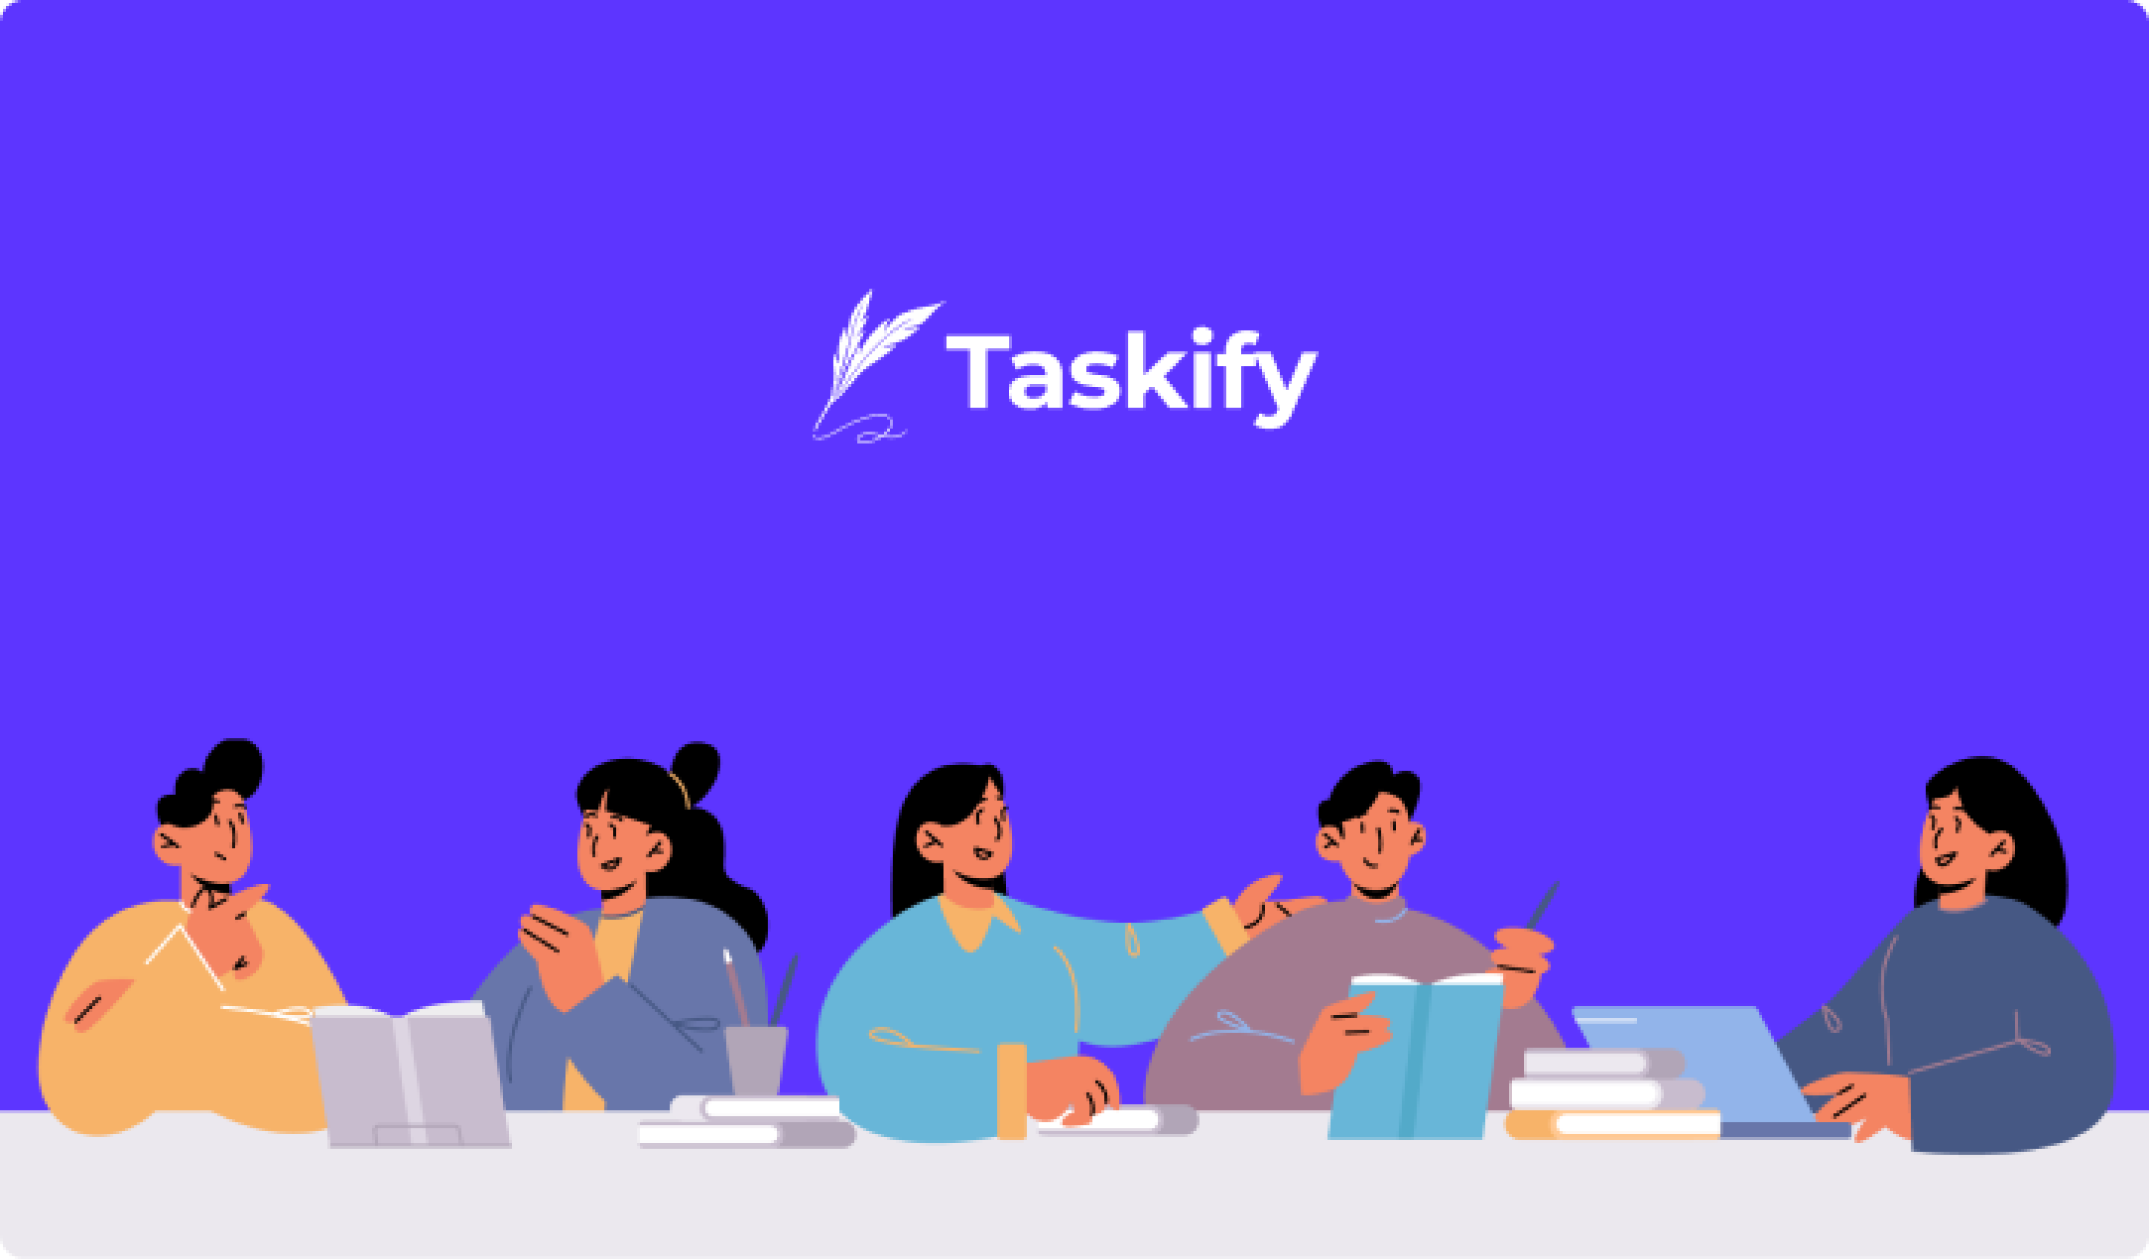
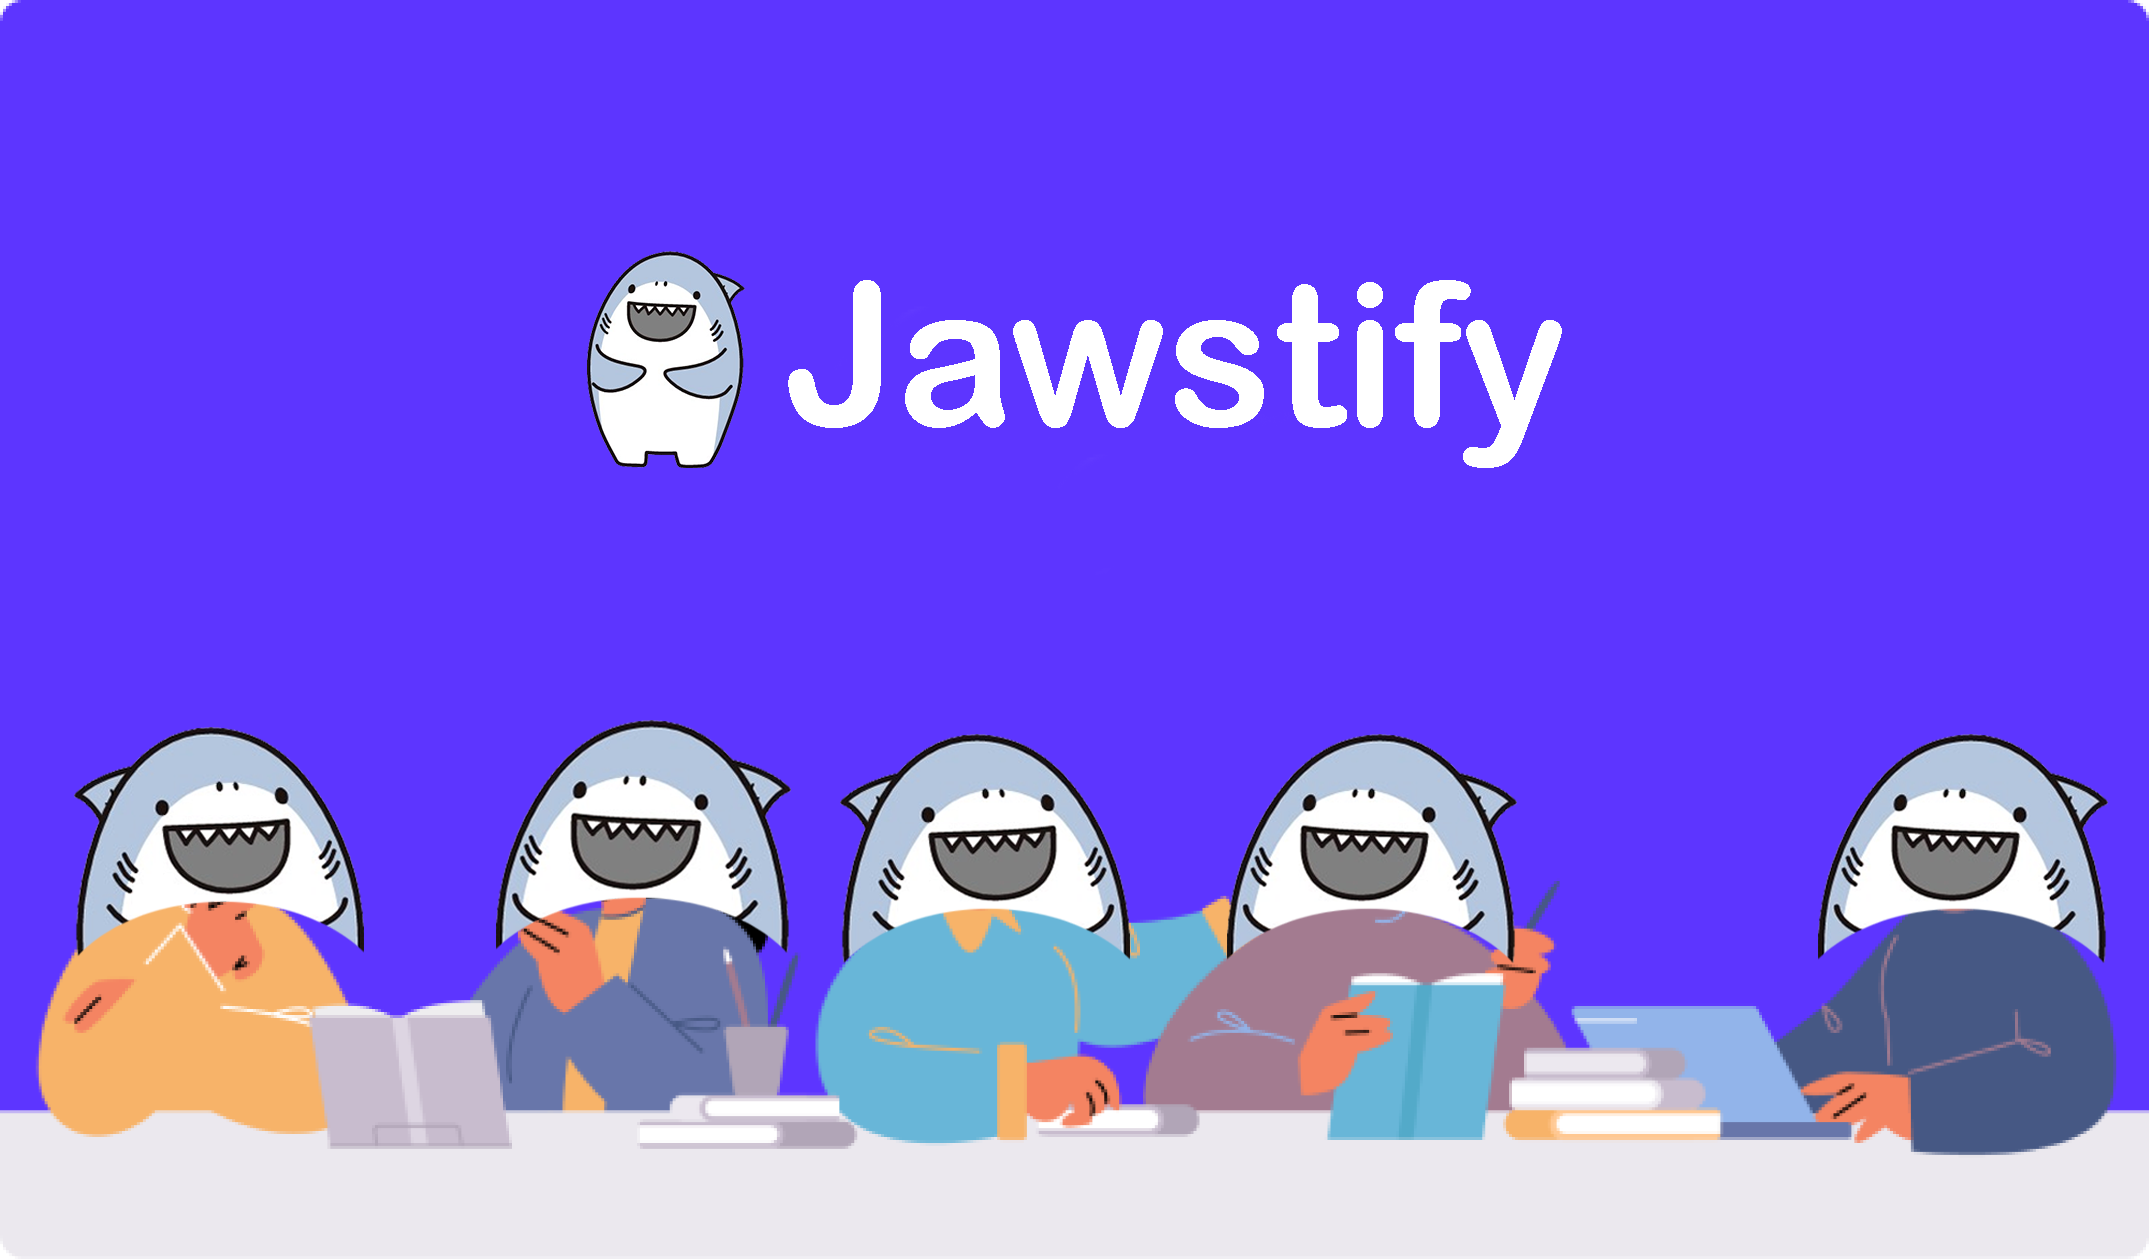
[#154] Feat: Jawsitfy로 변경

diff --git a/pages/signup/index.tsx b/pages/signup/index.tsx
@@ -5,8 +5,8 @@ import LoginButton from '@/components/common/Button/LoginButton';
 import * as C from '@/constants/SignValidate';
 import useAuth from '@/hooks/useAuth';
 import useRedirectByLogin from '@/hooks/useRedirectByLogin';
-import mainLogoText from '@/public/assets/icons/logoText.svg';
-import mainLogo from '@/public/assets/icons/mainPurpleLogo.svg';
+import mainLogoText from '@/public/assets/images/title.png';
+import mainLogo from '@/public/assets/images/transJaws.png';
 import { fontStyle } from '@/styles/fontStyle';
 import { COLORS } from '@/styles/palettes';
 import { useRouter } from 'next/router';
@@ -85,9 +85,9 @@ function SignUp() {
   return (
     <StyledContainer>
       <L.StyledLogoContainer href={'/'}>
-        <L.StyledLogoImg src={mainLogo} height={190} width={165} alt="메인 로고" />
-        <L.StyledLogoText src={mainLogoText} height={55} width={198} alt="메인 로고 텍스트" />
-        <L.StyledDescription>첫 방문을 환영합니다!</L.StyledDescription>
+        <L.StyledLogoImg src={mainLogo} height={190} width={190} alt="메인 로고" />
+        <L.StyledLogoText src={mainLogoText} height={55} width={240} alt="메인 로고 텍스트" />
+        <L.StyledDescription>첫 방문 조습니다!</L.StyledDescription>
       </L.StyledLogoContainer>
 
       <L.StyledForm onSubmit={handleSubmit(onSubmit)}>
@@ -133,7 +133,7 @@ function SignUp() {
               setIsAgreeChecked((prev) => !prev);
             }}
           />
-          <StyledText>이용약관에 동의합니다.</StyledText>
+          <StyledText>이용약관 조습니다.</StyledText>
         </StyledCheckBoxContainer>
         {!isAgreeChecked && <StyledAgreeNotCheckedText>{alertMessage.noCheck}</StyledAgreeNotCheckedText>}
         <LoginButton active={isBtnActive} usingType="login" text="회원가입" type="submit" margin="-3px 0 0" />

diff --git a/pages/login/index.tsx b/pages/login/index.tsx
@@ -6,8 +6,8 @@ import * as C from '@/constants/SignValidate';
 import useUserData from '@/hooks/global/useUserData';
 import useAuth from '@/hooks/useAuth';
 import useRedirectByLogin from '@/hooks/useRedirectByLogin';
-import mainLogoText from '@/public/assets/icons/logoText.svg';
-import mainLogo from '@/public/assets/icons/mainPurpleLogo.svg';
+import mainLogoText from '@/public/assets/images/title.png';
+import mainLogo from '@/public/assets/images/transJaws.png';
 import { fontStyle } from '@/styles/fontStyle';
 import { onMobile } from '@/styles/mediaQuery';
 import { COLORS } from '@/styles/palettes';
@@ -64,9 +64,9 @@ function Login() {
   return (
     <StyledContainer>
       <StyledLogoContainer href={'/'}>
-        <StyledLogoImg src={mainLogo} height={190} width={165} alt="메인 로고" />
-        <StyledLogoText src={mainLogoText} height={55} width={198} alt="메인 로고 텍스트" />
-        <StyledDescription>오늘도 만나서 반가워요!</StyledDescription>
+        <StyledLogoImg src={mainLogo} height={190} width={190} alt="메인 로고" />
+        <StyledLogoText src={mainLogoText} height={55} width={240} alt="메인 로고 텍스트" />
+        <StyledDescription>오늘도 만나서 조습니다!</StyledDescription>
       </StyledLogoContainer>
 
       <StyledForm onSubmit={handleSubmit(onSubmit)}>
@@ -133,17 +133,15 @@ export const StyledLogoContainer = styled(Link)`
 `;
 
 export const StyledLogoImg = styled(Image)`
-  margin-left: 36px;
   ${onMobile} {
-    width: 100px;
+    width: 120px;
     height: 115px;
-    margin-left: 22px;
   }
 `;
 
 export const StyledLogoText = styled(Image)`
   ${onMobile} {
-    width: 119px;
+    width: 130px;
     height: 33px;
   }
 `;

diff --git a/components/Sidebar/Sidebar.tsx b/components/Sidebar/Sidebar.tsx
@@ -1,8 +1,8 @@
 import API from '@/apis/api';
 import Modal from '@/components/Modal/Modal';
-import Logo from '@/public/assets/icons/LogoSidebar.svg';
-import LogoTitle from '@/public/assets/icons/LogoSidebarTitle.svg';
 import AddBox from '@/public/assets/icons/invite.svg';
+import LogoTitle from '@/public/assets/images/title.png';
+import Logo from '@/public/assets/images/transJaws.png';
 import { fontStyle } from '@/styles/fontStyle';
 import { onMobile, onPc, onTablet } from '@/styles/mediaQuery';
 import { COLORS } from '@/styles/palettes';
@@ -51,8 +51,8 @@ function Sidebar({ reset, boardId, setReset, refreshToggle, refresh }: SidebarPr
       <StyledContainer>
         <StyledImageWrapper>
           <Link href="/mydashboard">
-            <StyledImage src={Logo} alt="사이드바 로고" />
-            <StyledImage src={LogoTitle} alt="사이드바 로고 제목" />
+            <StyledImage width={30} height={30} src={Logo} alt="사이드바 로고" />
+            <StyledImage width={95} height={22} src={LogoTitle} alt="사이드바 로고 제목" />
           </Link>
         </StyledImageWrapper>
 
@@ -113,7 +113,7 @@ const StyledContainer = styled.div`
 
 const StyledImage = styled(Image)`
   &:nth-child(2) {
-    margin-top: 8.01px;
+    margin-bottom: 2px;
     ${onMobile} {
       display: none;
     }
@@ -122,6 +122,7 @@ const StyledImage = styled(Image)`
 
 const StyledImageWrapper = styled.div`
   display: flex;
+  align-items: center;
   margin-top: 20px;
 
   ${onPc} {

diff --git a/components/Landing/Nav.tsx b/components/Landing/Nav.tsx
@@ -1,13 +1,13 @@
-import logoImage from '@/public/assets/icons/logoImage.svg';
-import logoText from '@/public/assets/icons/logoText.svg';
-import styled from 'styled-components';
+import useTheme from '@/hooks/useTheme';
+import moonIcon from '@/public/assets/icons/moon.svg';
+import sunIcon from '@/public/assets/icons/sun.svg';
+import logoText from '@/public/assets/images/title.png';
+import logoImage from '@/public/assets/images/transJaws.png';
+import { fontStyle } from '@/styles/fontStyle';
+import { onMobile, onPc, onTablet } from '@/styles/mediaQuery';
 import Image from 'next/image';
 import Link from 'next/link';
-import { onMobile, onPc, onTablet } from '@/styles/mediaQuery';
-import { fontStyle } from '@/styles/fontStyle';
-import sunIcon from '@/public/assets/icons/sun.svg';
-import moonIcon from '@/public/assets/icons/moon.svg';
-import useTheme from '@/hooks/useTheme';
+import styled from 'styled-components';
 
 function Nav() {
   const { themeMode, toggleThemeMode } = useTheme();
@@ -80,8 +80,9 @@ const LogoImageWrapper = styled.div`
 const LogoTextWrapper = styled.div`
   display: none;
   position: relative;
-  width: 80px;
+  width: 95px;
   height: 22px;
+  margin-top: 5px;
 
   ${onTablet} {
     display: block;

diff --git a/components/Landing/Hero.tsx b/components/Landing/Hero.tsx
@@ -22,7 +22,7 @@ function HeroSection() {
       </StyledHeroImageWrapper>
       <StyledHeroTextWrapper>
         <StyledHeroText1>새로운 일정 관리</StyledHeroText1>
-        <StyledHeroText2>Taskify</StyledHeroText2>
+        <StyledHeroText2>Jawstify</StyledHeroText2>
       </StyledHeroTextWrapper>
       <StyledHeroDescription>일정 조습니다 🦈</StyledHeroDescription>
       <LoginButton usingType="landing" active={true} onClick={handleClick} text="로그인하기" />
